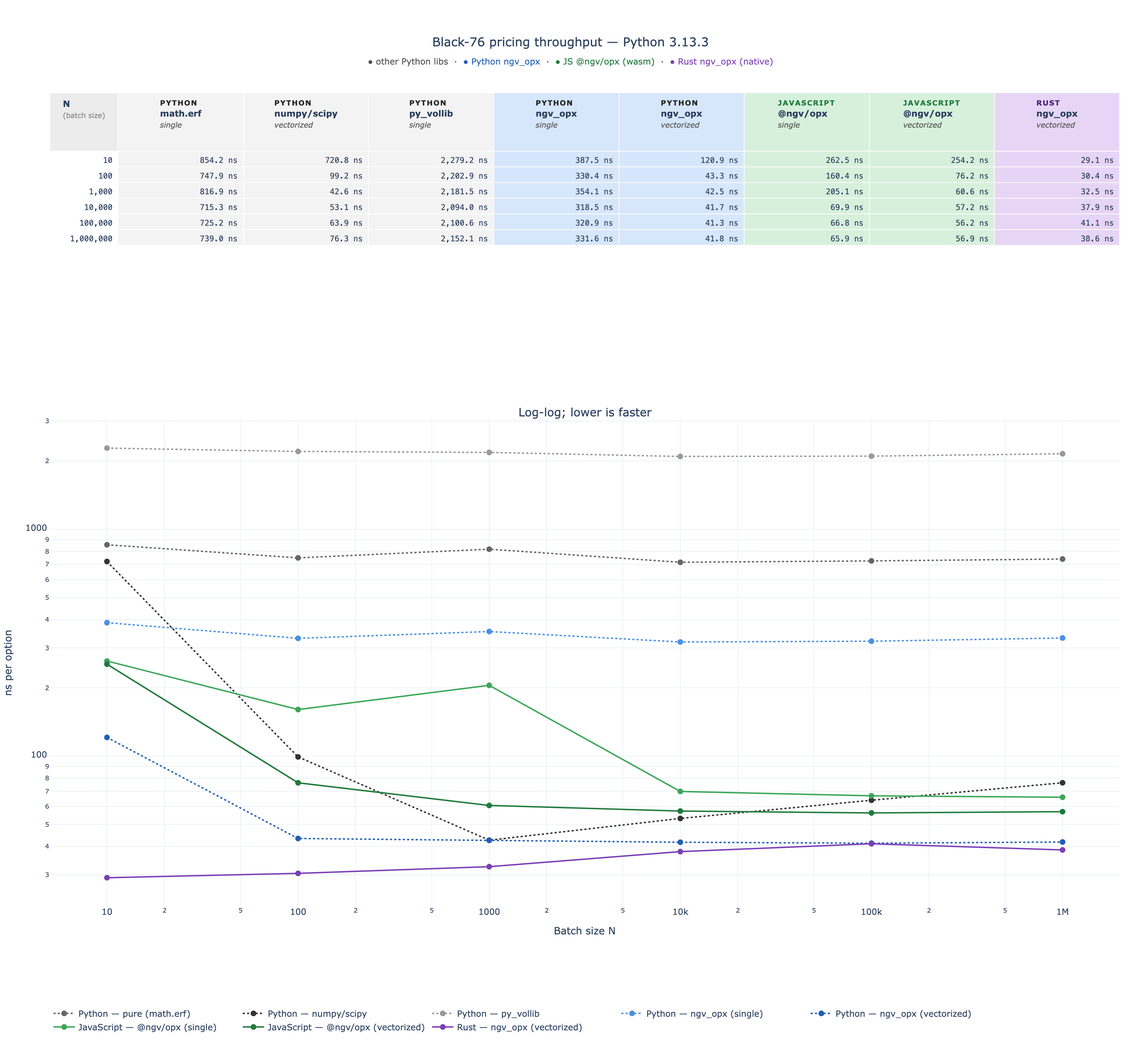
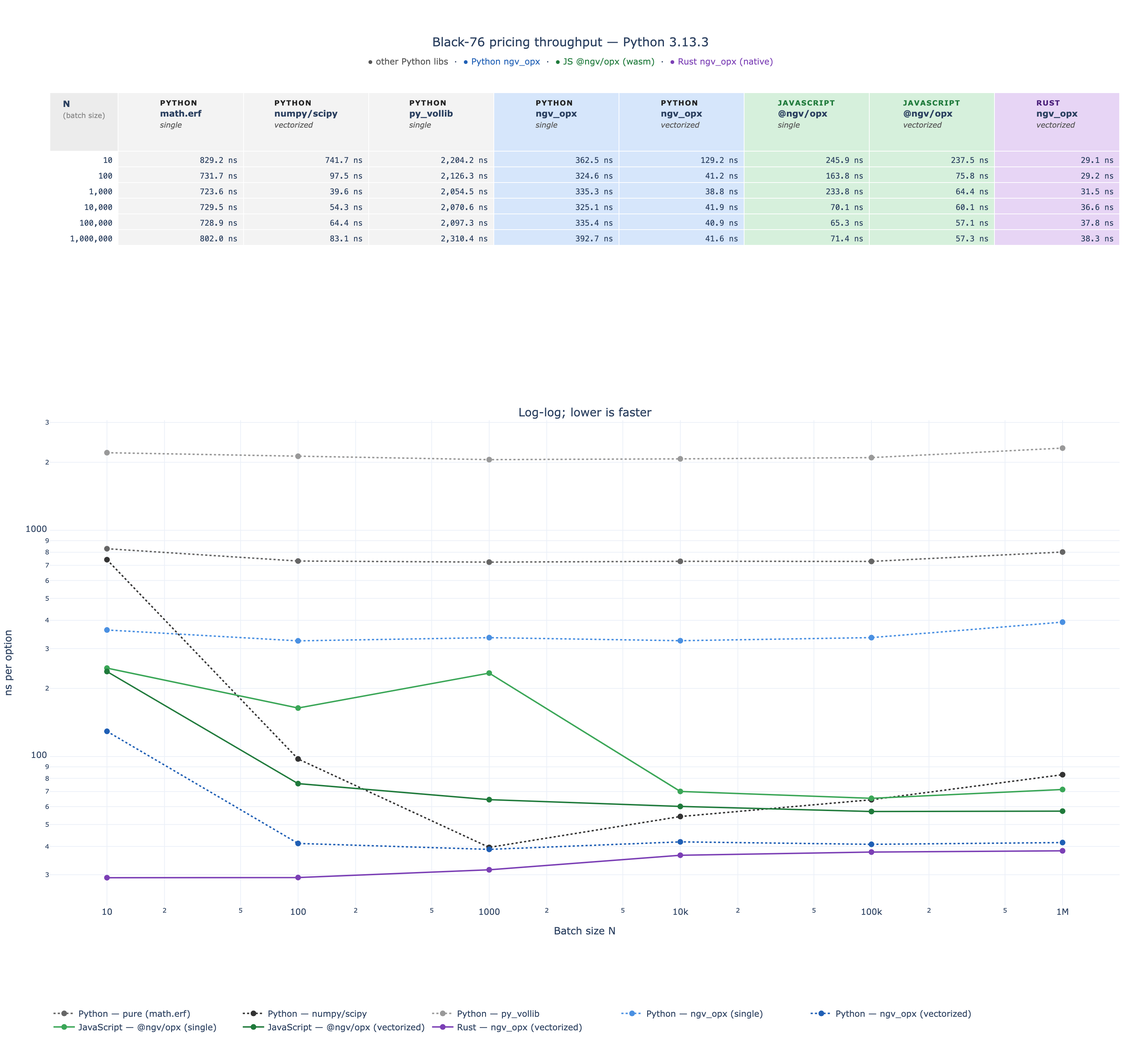
docs(readme): stacked HTML header in bench table; drop PNG embed
Replaces the markdown bench table with a raw HTML <table> so the header
can stack three rows the same way benchmarks/bench_chart.html does:
  Row 1 — LANGUAGE (PYTHON / JAVASCRIPT / RUST), colspan-grouped
  Row 2 — library (math.erf, numpy/scipy, py_vollib, ngv_opx, @ngv/opx)
  Row 3 — variant (single / vectorized)

GitHub strips inline style attributes from README HTML, so the chart's
column tints can't carry over — bold instead marks the production
ngv_opx paths (Python vec, JS vec, Rust vec). update_readme.py drives
the table from a single COLUMNS table so the chart and README stay in
sync — adding a column means one new tuple entry, not two parallel
lists.

Removes the inline PNG image in favor of links to the interactive HTML
and PNG. The numbers are the story; the picture was crowding them out.

diff --git a/benchmarks/bench_chart.html b/benchmarks/bench_chart.html
@@ -2,6 +2,6 @@
 <head><meta charset="utf-8" /></head>
 <body>
     <div>                        <script>window.PlotlyConfig = {MathJaxConfig: 'local'};</script>
-        <script charset="utf-8" src="https://cdn.plot.ly/plotly-3.5.0.min.js" integrity="sha256-fHbNLP+GlIXN+efbQec78UkemUz3NJp7UmfGxC1tNxs=" crossorigin="anonymous"></script>                <div id="9d07face-6624-4d9a-b35d-214faf67f7d0" class="plotly-graph-div" style="height:1100px; width:1200px;"></div>            <script>                window.PLOTLYENV=window.PLOTLYENV || {};                                if (document.getElementById("9d07face-6624-4d9a-b35d-214faf67f7d0")) {                    Plotly.newPlot(                        "9d07face-6624-4d9a-b35d-214faf67f7d0",                        [{"hovertemplate":"\u003cb\u003ePython — pure (math.erf)\u003c\u002fb\u003e\u003cbr\u003elanguage: Python\u003cbr\u003eN=%{x:,}\u003cbr\u003e%{y:.1f} ns\u002foption\u003cextra\u003e\u003c\u002fextra\u003e","line":{"color":"#666666","dash":"dot","width":2},"marker":{"size":8},"mode":"lines+markers","name":"Python — pure (math.erf)","x":[10,100,1000,10000,100000,1000000],"y":[854.1974239051342,747.9090709239244,816.9169304892421,715.2957958169281,725.1783297397196,739.0438329894096],"type":"scatter","xaxis":"x","yaxis":"y"},{"hovertemplate":"\u003cb\u003ePython — numpy\u002fscipy\u003c\u002fb\u003e\u003cbr\u003elanguage: Python\u003cbr\u003eN=%{x:,}\u003cbr\u003e%{y:.1f} ns\u002foption\u003cextra\u003e\u003c\u002fextra\u003e","line":{"color":"#333333","dash":"dot","width":2},"marker":{"size":8},"mode":"lines+markers","name":"Python — numpy\u002fscipy","x":[10,100,1000,10000,100000,1000000],"y":[720.7971066236496,99.16955605149269,42.58297849446535,53.10419946908951,63.88042005710303,76.28391601610929],"type":"scatter","xaxis":"x","yaxis":"y"},{"hovertemplate":"\u003cb\u003ePython — py_vollib\u003c\u002fb\u003e\u003cbr\u003elanguage: Python\u003cbr\u003eN=%{x:,}\u003cbr\u003e%{y:.1f} ns\u002foption\u003cextra\u003e\u003c\u002fextra\u003e","line":{"color":"#999999","dash":"dot","width":2},"marker":{"size":8},"mode":"lines+markers","name":"Python — py_vollib","x":[10,100,1000,10000,100000,1000000],"y":[2279.202453792095,2202.9096726328135,2181.458054110408,2093.962498474866,2100.6166702136397,2152.056209044531],"type":"scatter","xaxis":"x","yaxis":"y"},{"hovertemplate":"\u003cb\u003ePython — ngv_opx (single)\u003c\u002fb\u003e\u003cbr\u003elanguage: Python\u003cbr\u003eN=%{x:,}\u003cbr\u003e%{y:.1f} ns\u002foption\u003cextra\u003e\u003c\u002fextra\u003e","line":{"color":"#4a90e2","dash":"dot","width":2},"marker":{"size":8},"mode":"lines+markers","name":"Python — ngv_opx (single)","x":[10,100,1000,10000,100000,1000000],"y":[387.5000402331352,330.4204437881708,354.0830221027136,318.51669773459435,320.9362493362278,331.6050840076059],"type":"scatter","xaxis":"x","yaxis":"y"},{"hovertemplate":"\u003cb\u003ePython — ngv_opx (vectorized)\u003c\u002fb\u003e\u003cbr\u003elanguage: Python\u003cbr\u003eN=%{x:,}\u003cbr\u003e%{y:.1f} ns\u002foption\u003cextra\u003e\u003c\u002fextra\u003e","line":{"color":"#1f5fb5","dash":"dot","width":2},"marker":{"size":8},"mode":"lines+markers","name":"Python — ngv_opx (vectorized)","x":[10,100,1000,10000,100000,1000000],"y":[120.8973117172718,43.32978278398514,42.49997437000275,41.71250620856881,41.29042034037411,41.81112500373274],"type":"scatter","xaxis":"x","yaxis":"y"},{"hovertemplate":"\u003cb\u003eJavaScript — @ngv\u002fopx (single)\u003c\u002fb\u003e\u003cbr\u003elanguage: JavaScript\u003cbr\u003eN=%{x:,}\u003cbr\u003e%{y:.1f} ns\u002foption\u003cextra\u003e\u003c\u002fextra\u003e","line":{"color":"#3aa657","dash":"solid","width":2},"marker":{"size":8},"mode":"lines+markers","name":"JavaScript — @ngv\u002fopx (single)","x":[10,100,1000,10000,100000,1000000],"y":[262.5000000001876,160.40999999997752,205.08299999999835,69.86670000000004,66.82583999999999,65.85337500000003],"type":"scatter","xaxis":"x","yaxis":"y"},{"hovertemplate":"\u003cb\u003eJavaScript — @ngv\u002fopx (vectorized)\u003c\u002fb\u003e\u003cbr\u003elanguage: JavaScript\u003cbr\u003eN=%{x:,}\u003cbr\u003e%{y:.1f} ns\u002foption\u003cextra\u003e\u003c\u002fextra\u003e","line":{"color":"#1f7a3b","dash":"solid","width":2},"marker":{"size":8},"mode":"lines+markers","name":"JavaScript — @ngv\u002fopx (vectorized)","x":[10,100,1000,10000,100000,1000000],"y":[254.19999999982676,76.24999999997328,60.583999999998646,57.24160000000005,56.165420000000026,56.89737500000001],"type":"scatter","xaxis":"x","yaxis":"y"},{"hovertemplate":"\u003cb\u003eRust — ngv_opx (vectorized)\u003c\u002fb\u003e\u003cbr\u003elanguage: Rust\u003cbr\u003eN=%{x:,}\u003cbr\u003e%{y:.1f} ns\u002foption\u003cextra\u003e\u003c\u002fextra\u003e","line":{"color":"#7b3fb5","dash":"solid","width":2},"marker":{"size":8},"mode":"lines+markers","name":"Rust — ngv_opx (vectorized)","x":[10,100,1000,10000,100000,1000000],"y":[29.1,30.41,32.542,37.9167,41.0538,38.5768],"type":"scatter","xaxis":"x","yaxis":"y"},{"cells":{"align":"right","fill":{"color":[["white","white","white","white","white","white"],["#f3f3f3","#f3f3f3","#f3f3f3","#f3f3f3","#f3f3f3","#f3f3f3"],["#f3f3f3","#f3f3f3","#f3f3f3","#f3f3f3","#f3f3f3","#f3f3f3"],["#f3f3f3","#f3f3f3","#f3f3f3","#f3f3f3","#f3f3f3","#f3f3f3"],["#d6e6fb","#d6e6fb","#d6e6fb","#d6e6fb","#d6e6fb","#d6e6fb"],["#d6e6fb","#d6e6fb","#d6e6fb","#d6e6fb","#d6e6fb","#d6e6fb"],["#d6f0dc","#d6f0dc","#d6f0dc","#d6f0dc","#d6f0dc","#d6f0dc"],["#d6f0dc","#d6f0dc","#d6f0dc","#d6f0dc","#d6f0dc","#d6f0dc"],["#e7d5f5","#e7d5f5","#e7d5f5","#e7d5f5","#e7d5f5","#e7d5f5"]]},"font":{"family":"monospace","size":11},"height":22,"values":[["10","100","1,000","10,000","100,000","1,000,000"],["854.2 ns","747.9 ns","816.9 ns","715.3 ns","725.2 ns","739.0 ns"],["720.8 ns","99.2 ns","42.6 ns","53.1 ns","63.9 ns","76.3 ns"],["2,279.2 ns","2,202.9 ns","2,181.5 ns","2,094.0 ns","2,100.6 ns","2,152.1 ns"],["387.5 ns","330.4 ns","354.1 ns","318.5 ns","320.9 ns","331.6 ns"],["120.9 ns","43.3 ns","42.5 ns","41.7 ns","41.3 ns","41.8 ns"],["262.5 ns","160.4 ns","205.1 ns","69.9 ns","66.8 ns","65.9 ns"],["254.2 ns","76.2 ns","60.6 ns","57.2 ns","56.2 ns","56.9 ns"],["29.1 ns","30.4 ns","32.5 ns","37.9 ns","41.1 ns","38.6 ns"]]},"columnwidth":[60,110,110,110,110,110,110,110,110],"header":{"align":"center","fill":{"color":["#ececec","#f3f3f3","#f3f3f3","#f3f3f3","#d6e6fb","#d6e6fb","#d6f0dc","#d6f0dc","#e7d5f5"]},"font":{"size":12},"height":82,"values":["\u003cb\u003eN\u003c\u002fb\u003e\u003cbr\u003e\u003cspan style='font-size:10px;color:#888'\u003e(batch size)\u003c\u002fspan\u003e","\u003cspan style='background:#dcdcdc;color:#222222;font-size:10px;font-weight:700;padding:2px 8px;border-radius:3px;letter-spacing:1px;'\u003ePYTHON\u003c\u002fspan\u003e\u003cbr\u003e\u003cspan style='background:#f3f3f3;display:inline-block;padding:1px 8px;border-radius:3px;'\u003e\u003cb style='font-size:12px'\u003emath.erf\u003c\u002fb\u003e\u003c\u002fspan\u003e\u003cbr\u003e\u003cspan style='font-size:10.5px;color:#555;font-style:italic'\u003esingle\u003c\u002fspan\u003e","\u003cspan style='background:#dcdcdc;color:#222222;font-size:10px;font-weight:700;padding:2px 8px;border-radius:3px;letter-spacing:1px;'\u003ePYTHON\u003c\u002fspan\u003e\u003cbr\u003e\u003cspan style='background:#f3f3f3;display:inline-block;padding:1px 8px;border-radius:3px;'\u003e\u003cb style='font-size:12px'\u003enumpy\u002fscipy\u003c\u002fb\u003e\u003c\u002fspan\u003e\u003cbr\u003e\u003cspan style='font-size:10.5px;color:#555;font-style:italic'\u003evectorized\u003c\u002fspan\u003e","\u003cspan style='background:#dcdcdc;color:#222222;font-size:10px;font-weight:700;padding:2px 8px;border-radius:3px;letter-spacing:1px;'\u003ePYTHON\u003c\u002fspan\u003e\u003cbr\u003e\u003cspan style='background:#f3f3f3;display:inline-block;padding:1px 8px;border-radius:3px;'\u003e\u003cb style='font-size:12px'\u003epy_vollib\u003c\u002fb\u003e\u003c\u002fspan\u003e\u003cbr\u003e\u003cspan style='font-size:10.5px;color:#555;font-style:italic'\u003esingle\u003c\u002fspan\u003e","\u003cspan style='background:#dcdcdc;color:#222222;font-size:10px;font-weight:700;padding:2px 8px;border-radius:3px;letter-spacing:1px;'\u003ePYTHON\u003c\u002fspan\u003e\u003cbr\u003e\u003cspan style='background:#d6e6fb;display:inline-block;padding:1px 8px;border-radius:3px;'\u003e\u003cb style='font-size:12px'\u003engv_opx\u003c\u002fb\u003e\u003c\u002fspan\u003e\u003cbr\u003e\u003cspan style='font-size:10.5px;color:#555;font-style:italic'\u003esingle\u003c\u002fspan\u003e","\u003cspan style='background:#dcdcdc;color:#222222;font-size:10px;font-weight:700;padding:2px 8px;border-radius:3px;letter-spacing:1px;'\u003ePYTHON\u003c\u002fspan\u003e\u003cbr\u003e\u003cspan style='background:#d6e6fb;display:inline-block;padding:1px 8px;border-radius:3px;'\u003e\u003cb style='font-size:12px'\u003engv_opx\u003c\u002fb\u003e\u003c\u002fspan\u003e\u003cbr\u003e\u003cspan style='font-size:10.5px;color:#555;font-style:italic'\u003evectorized\u003c\u002fspan\u003e","\u003cspan style='background:#c8e6cf;color:#1f7a3b;font-size:10px;font-weight:700;padding:2px 8px;border-radius:3px;letter-spacing:1px;'\u003eJAVASCRIPT\u003c\u002fspan\u003e\u003cbr\u003e\u003cspan style='background:#d6f0dc;display:inline-block;padding:1px 8px;border-radius:3px;'\u003e\u003cb style='font-size:12px'\u003e@ngv\u002fopx\u003c\u002fb\u003e\u003c\u002fspan\u003e\u003cbr\u003e\u003cspan style='font-size:10.5px;color:#555;font-style:italic'\u003esingle\u003c\u002fspan\u003e","\u003cspan style='background:#c8e6cf;color:#1f7a3b;font-size:10px;font-weight:700;padding:2px 8px;border-radius:3px;letter-spacing:1px;'\u003eJAVASCRIPT\u003c\u002fspan\u003e\u003cbr\u003e\u003cspan style='background:#d6f0dc;display:inline-block;padding:1px 8px;border-radius:3px;'\u003e\u003cb style='font-size:12px'\u003e@ngv\u002fopx\u003c\u002fb\u003e\u003c\u002fspan\u003e\u003cbr\u003e\u003cspan style='font-size:10.5px;color:#555;font-style:italic'\u003evectorized\u003c\u002fspan\u003e","\u003cspan style='background:#d8c4ea;color:#4a1f7a;font-size:10px;font-weight:700;padding:2px 8px;border-radius:3px;letter-spacing:1px;'\u003eRUST\u003c\u002fspan\u003e\u003cbr\u003e\u003cspan style='background:#e7d5f5;display:inline-block;padding:1px 8px;border-radius:3px;'\u003e\u003cb style='font-size:12px'\u003engv_opx\u003c\u002fb\u003e\u003c\u002fspan\u003e\u003cbr\u003e\u003cspan style='font-size:10.5px;color:#555;font-style:italic'\u003evectorized\u003c\u002fspan\u003e"]},"type":"table","domain":{"x":[0.0,1.0],"y":[0.602,1.0]}}],                        {"template":{"data":{"barpolar":[{"marker":{"line":{"color":"white","width":0.5},"pattern":{"fillmode":"overlay","size":10,"solidity":0.2}},"type":"barpolar"}],"bar":[{"error_x":{"color":"#2a3f5f"},"error_y":{"color":"#2a3f5f"},"marker":{"line":{"color":"white","width":0.5},"pattern":{"fillmode":"overlay","size":10,"solidity":0.2}},"type":"bar"}],"carpet":[{"aaxis":{"endlinecolor":"#2a3f5f","gridcolor":"#C8D4E3","linecolor":"#C8D4E3","minorgridcolor":"#C8D4E3","startlinecolor":"#2a3f5f"},"baxis":{"endlinecolor":"#2a3f5f","gridcolor":"#C8D4E3","linecolor":"#C8D4E3","minorgridcolor":"#C8D4E3","startlinecolor":"#2a3f5f"},"type":"carpet"}],"choropleth":[{"colorbar":{"outlinewidth":0,"ticks":""},"type":"choropleth"}],"contourcarpet":[{"colorbar":{"outlinewidth":0,"ticks":""},"type":"contourcarpet"}],"contour":[{"colorbar":{"outlinewidth":0,"ticks":""},"colorscale":[[0.0,"#0d0887"],[0.1111111111111111,"#46039f"],[0.2222222222222222,"#7201a8"],[0.3333333333333333,"#9c179e"],[0.4444444444444444,"#bd3786"],[0.5555555555555556,"#d8576b"],[0.6666666666666666,"#ed7953"],[0.7777777777777778,"#fb9f3a"],[0.8888888888888888,"#fdca26"],[1.0,"#f0f921"]],"type":"contour"}],"heatmap":[{"colorbar":{"outlinewidth":0,"ticks":""},"colorscale":[[0.0,"#0d0887"],[0.1111111111111111,"#46039f"],[0.2222222222222222,"#7201a8"],[0.3333333333333333,"#9c179e"],[0.4444444444444444,"#bd3786"],[0.5555555555555556,"#d8576b"],[0.6666666666666666,"#ed7953"],[0.7777777777777778,"#fb9f3a"],[0.8888888888888888,"#fdca26"],[1.0,"#f0f921"]],"type":"heatmap"}],"histogram2dcontour":[{"colorbar":{"outlinewidth":0,"ticks":""},"colorscale":[[0.0,"#0d0887"],[0.1111111111111111,"#46039f"],[0.2222222222222222,"#7201a8"],[0.3333333333333333,"#9c179e"],[0.4444444444444444,"#bd3786"],[0.5555555555555556,"#d8576b"],[0.6666666666666666,"#ed7953"],[0.7777777777777778,"#fb9f3a"],[0.8888888888888888,"#fdca26"],[1.0,"#f0f921"]],"type":"histogram2dcontour"}],"histogram2d":[{"colorbar":{"outlinewidth":0,"ticks":""},"colorscale":[[0.0,"#0d0887"],[0.1111111111111111,"#46039f"],[0.2222222222222222,"#7201a8"],[0.3333333333333333,"#9c179e"],[0.4444444444444444,"#bd3786"],[0.5555555555555556,"#d8576b"],[0.6666666666666666,"#ed7953"],[0.7777777777777778,"#fb9f3a"],[0.8888888888888888,"#fdca26"],[1.0,"#f0f921"]],"type":"histogram2d"}],"histogram":[{"marker":{"pattern":{"fillmode":"overlay","size":10,"solidity":0.2}},"type":"histogram"}],"mesh3d":[{"colorbar":{"outlinewidth":0,"ticks":""},"type":"mesh3d"}],"parcoords":[{"line":{"colorbar":{"outlinewidth":0,"ticks":""}},"type":"parcoords"}],"pie":[{"automargin":true,"type":"pie"}],"scatter3d":[{"line":{"colorbar":{"outlinewidth":0,"ticks":""}},"marker":{"colorbar":{"outlinewidth":0,"ticks":""}},"type":"scatter3d"}],"scattercarpet":[{"marker":{"colorbar":{"outlinewidth":0,"ticks":""}},"type":"scattercarpet"}],"scattergeo":[{"marker":{"colorbar":{"outlinewidth":0,"ticks":""}},"type":"scattergeo"}],"scattergl":[{"marker":{"colorbar":{"outlinewidth":0,"ticks":""}},"type":"scattergl"}],"scattermapbox":[{"marker":{"colorbar":{"outlinewidth":0,"ticks":""}},"type":"scattermapbox"}],"scattermap":[{"marker":{"colorbar":{"outlinewidth":0,"ticks":""}},"type":"scattermap"}],"scatterpolargl":[{"marker":{"colorbar":{"outlinewidth":0,"ticks":""}},"type":"scatterpolargl"}],"scatterpolar":[{"marker":{"colorbar":{"outlinewidth":0,"ticks":""}},"type":"scatterpolar"}],"scatter":[{"fillpattern":{"fillmode":"overlay","size":10,"solidity":0.2},"type":"scatter"}],"scatterternary":[{"marker":{"colorbar":{"outlinewidth":0,"ticks":""}},"type":"scatterternary"}],"surface":[{"colorbar":{"outlinewidth":0,"ticks":""},"colorscale":[[0.0,"#0d0887"],[0.1111111111111111,"#46039f"],[0.2222222222222222,"#7201a8"],[0.3333333333333333,"#9c179e"],[0.4444444444444444,"#bd3786"],[0.5555555555555556,"#d8576b"],[0.6666666666666666,"#ed7953"],[0.7777777777777778,"#fb9f3a"],[0.8888888888888888,"#fdca26"],[1.0,"#f0f921"]],"type":"surface"}],"table":[{"cells":{"fill":{"color":"#EBF0F8"},"line":{"color":"white"}},"header":{"fill":{"color":"#C8D4E3"},"line":{"color":"white"}},"type":"table"}]},"layout":{"annotationdefaults":{"arrowcolor":"#2a3f5f","arrowhead":0,"arrowwidth":1},"autotypenumbers":"strict","coloraxis":{"colorbar":{"outlinewidth":0,"ticks":""}},"colorscale":{"diverging":[[0,"#8e0152"],[0.1,"#c51b7d"],[0.2,"#de77ae"],[0.3,"#f1b6da"],[0.4,"#fde0ef"],[0.5,"#f7f7f7"],[0.6,"#e6f5d0"],[0.7,"#b8e186"],[0.8,"#7fbc41"],[0.9,"#4d9221"],[1,"#276419"]],"sequential":[[0.0,"#0d0887"],[0.1111111111111111,"#46039f"],[0.2222222222222222,"#7201a8"],[0.3333333333333333,"#9c179e"],[0.4444444444444444,"#bd3786"],[0.5555555555555556,"#d8576b"],[0.6666666666666666,"#ed7953"],[0.7777777777777778,"#fb9f3a"],[0.8888888888888888,"#fdca26"],[1.0,"#f0f921"]],"sequentialminus":[[0.0,"#0d0887"],[0.1111111111111111,"#46039f"],[0.2222222222222222,"#7201a8"],[0.3333333333333333,"#9c179e"],[0.4444444444444444,"#bd3786"],[0.5555555555555556,"#d8576b"],[0.6666666666666666,"#ed7953"],[0.7777777777777778,"#fb9f3a"],[0.8888888888888888,"#fdca26"],[1.0,"#f0f921"]]},"colorway":["#636efa","#EF553B","#00cc96","#ab63fa","#FFA15A","#19d3f3","#FF6692","#B6E880","#FF97FF","#FECB52"],"font":{"color":"#2a3f5f"},"geo":{"bgcolor":"white","lakecolor":"white","landcolor":"white","showlakes":true,"showland":true,"subunitcolor":"#C8D4E3"},"hoverlabel":{"align":"left"},"hovermode":"closest","mapbox":{"style":"light"},"paper_bgcolor":"white","plot_bgcolor":"white","polar":{"angularaxis":{"gridcolor":"#EBF0F8","linecolor":"#EBF0F8","ticks":""},"bgcolor":"white","radialaxis":{"gridcolor":"#EBF0F8","linecolor":"#EBF0F8","ticks":""}},"scene":{"xaxis":{"backgroundcolor":"white","gridcolor":"#DFE8F3","gridwidth":2,"linecolor":"#EBF0F8","showbackground":true,"ticks":"","zerolinecolor":"#EBF0F8"},"yaxis":{"backgroundcolor":"white","gridcolor":"#DFE8F3","gridwidth":2,"linecolor":"#EBF0F8","showbackground":true,"ticks":"","zerolinecolor":"#EBF0F8"},"zaxis":{"backgroundcolor":"white","gridcolor":"#DFE8F3","gridwidth":2,"linecolor":"#EBF0F8","showbackground":true,"ticks":"","zerolinecolor":"#EBF0F8"}},"shapedefaults":{"line":{"color":"#2a3f5f"}},"ternary":{"aaxis":{"gridcolor":"#DFE8F3","linecolor":"#A2B1C6","ticks":""},"baxis":{"gridcolor":"#DFE8F3","linecolor":"#A2B1C6","ticks":""},"bgcolor":"white","caxis":{"gridcolor":"#DFE8F3","linecolor":"#A2B1C6","ticks":""}},"title":{"x":0.05},"xaxis":{"automargin":true,"gridcolor":"#EBF0F8","linecolor":"#EBF0F8","ticks":"","title":{"standoff":15},"zerolinecolor":"#EBF0F8","zerolinewidth":2},"yaxis":{"automargin":true,"gridcolor":"#EBF0F8","linecolor":"#EBF0F8","ticks":"","title":{"standoff":15},"zerolinecolor":"#EBF0F8","zerolinewidth":2}}},"xaxis":{"anchor":"y","domain":[0.0,1.0],"title":{"text":"Batch size N"},"type":"log","showgrid":true},"yaxis":{"anchor":"x","domain":[0.0,0.597],"title":{"text":"ns per option"},"type":"log","showgrid":true},"annotations":[{"font":{"size":16},"showarrow":false,"text":"Log-log; lower is faster","x":0.5,"xanchor":"center","xref":"paper","y":0.597,"yanchor":"bottom","yref":"paper"}],"title":{"text":"Black-76 pricing throughput — Python 3.13.3\u003cbr\u003e\u003csub\u003e\u003cspan style='color:#555'\u003e● other Python libs\u003c\u002fspan\u003e &nbsp;·&nbsp; \u003cspan style='color:#1f5fb5'\u003e● Python ngv_opx\u003c\u002fspan\u003e &nbsp;·&nbsp; \u003cspan style='color:#1f7a3b'\u003e● JS @ngv\u002fopx (wasm)\u003c\u002fspan\u003e &nbsp;·&nbsp; \u003cspan style='color:#7b3fb5'\u003e● Rust ngv_opx (native)\u003c\u002fspan\u003e\u003c\u002fsub\u003e","x":0.5,"xanchor":"center"},"legend":{"orientation":"h","yanchor":"top","y":-0.12,"x":0.0},"margin":{"l":70,"r":30,"t":130,"b":80},"height":1100,"width":1200},                        {"responsive": true}                    )                };            </script>        </div>
+        <script charset="utf-8" src="https://cdn.plot.ly/plotly-3.5.0.min.js" integrity="sha256-fHbNLP+GlIXN+efbQec78UkemUz3NJp7UmfGxC1tNxs=" crossorigin="anonymous"></script>                <div id="d0a514cb-91e1-464b-8f8f-a3c78c1da863" class="plotly-graph-div" style="height:1100px; width:1200px;"></div>            <script>                window.PLOTLYENV=window.PLOTLYENV || {};                                if (document.getElementById("d0a514cb-91e1-464b-8f8f-a3c78c1da863")) {                    Plotly.newPlot(                        "d0a514cb-91e1-464b-8f8f-a3c78c1da863",                        [{"hovertemplate":"\u003cb\u003ePython — pure (math.erf)\u003c\u002fb\u003e\u003cbr\u003elanguage: Python\u003cbr\u003eN=%{x:,}\u003cbr\u003e%{y:.1f} ns\u002foption\u003cextra\u003e\u003c\u002fextra\u003e","line":{"color":"#666666","dash":"dot","width":2},"marker":{"size":8},"mode":"lines+markers","name":"Python — pure (math.erf)","x":[10,100,1000,10000,100000,1000000],"y":[829.1914127767086,731.6702976822853,723.5829252749681,729.4500013813376,728.8537500426173,801.9951249007136],"type":"scatter","xaxis":"x","yaxis":"y"},{"hovertemplate":"\u003cb\u003ePython — numpy\u002fscipy\u003c\u002fb\u003e\u003cbr\u003elanguage: Python\u003cbr\u003eN=%{x:,}\u003cbr\u003e%{y:.1f} ns\u002foption\u003cextra\u003e\u003c\u002fextra\u003e","line":{"color":"#333333","dash":"dot","width":2},"marker":{"size":8},"mode":"lines+markers","name":"Python — numpy\u002fscipy","x":[10,100,1000,10000,100000,1000000],"y":[741.6936568915844,97.50016033649445,39.624981582164764,54.2541965842247,64.37000003643334,83.07195897214115],"type":"scatter","xaxis":"x","yaxis":"y"},{"hovertemplate":"\u003cb\u003ePython — py_vollib\u003c\u002fb\u003e\u003cbr\u003elanguage: Python\u003cbr\u003eN=%{x:,}\u003cbr\u003e%{y:.1f} ns\u002foption\u003cextra\u003e\u003c\u002fextra\u003e","line":{"color":"#999999","dash":"dot","width":2},"marker":{"size":8},"mode":"lines+markers","name":"Python — py_vollib","x":[10,100,1000,10000,100000,1000000],"y":[2204.196061939001,2126.250183209777,2054.5420702546835,2070.5666043795645,2097.340839682147,2310.4370000073686],"type":"scatter","xaxis":"x","yaxis":"y"},{"hovertemplate":"\u003cb\u003ePython — ngv_opx (single)\u003c\u002fb\u003e\u003cbr\u003elanguage: Python\u003cbr\u003eN=%{x:,}\u003cbr\u003e%{y:.1f} ns\u002foption\u003cextra\u003e\u003c\u002fextra\u003e","line":{"color":"#4a90e2","dash":"dot","width":2},"marker":{"size":8},"mode":"lines+markers","name":"Python — ngv_opx (single)","x":[10,100,1000,10000,100000,1000000],"y":[362.4940291047096,324.58105124533176,335.29195934534073,325.07909927517176,335.44542035087943,392.7204170031473],"type":"scatter","xaxis":"x","yaxis":"y"},{"hovertemplate":"\u003cb\u003ePython — ngv_opx (vectorized)\u003c\u002fb\u003e\u003cbr\u003elanguage: Python\u003cbr\u003eN=%{x:,}\u003cbr\u003e%{y:.1f} ns\u002foption\u003cextra\u003e\u003c\u002fextra\u003e","line":{"color":"#1f5fb5","dash":"dot","width":2},"marker":{"size":8},"mode":"lines+markers","name":"Python — ngv_opx (vectorized)","x":[10,100,1000,10000,100000,1000000],"y":[129.19772416353226,41.24944098293781,38.83393947035074,41.916698683053255,40.88166984729469,41.62074998021126],"type":"scatter","xaxis":"x","yaxis":"y"},{"hovertemplate":"\u003cb\u003eJavaScript — @ngv\u002fopx (single)\u003c\u002fb\u003e\u003cbr\u003elanguage: JavaScript\u003cbr\u003eN=%{x:,}\u003cbr\u003e%{y:.1f} ns\u002foption\u003cextra\u003e\u003c\u002fextra\u003e","line":{"color":"#3aa657","dash":"solid","width":2},"marker":{"size":8},"mode":"lines+markers","name":"JavaScript — @ngv\u002fopx (single)","x":[10,100,1000,10000,100000,1000000],"y":[245.90000000017656,163.75000000000028,233.75000000000057,70.0541000000001,65.29124999999992,71.43837500000002],"type":"scatter","xaxis":"x","yaxis":"y"},{"hovertemplate":"\u003cb\u003eJavaScript — @ngv\u002fopx (vectorized)\u003c\u002fb\u003e\u003cbr\u003elanguage: JavaScript\u003cbr\u003eN=%{x:,}\u003cbr\u003e%{y:.1f} ns\u002foption\u003cextra\u003e\u003c\u002fextra\u003e","line":{"color":"#1f7a3b","dash":"solid","width":2},"marker":{"size":8},"mode":"lines+markers","name":"JavaScript — @ngv\u002fopx (vectorized)","x":[10,100,1000,10000,100000,1000000],"y":[237.50000000006818,75.8300000000034,64.41699999999884,60.11249999999996,57.09958,57.32600000000002],"type":"scatter","xaxis":"x","yaxis":"y"},{"hovertemplate":"\u003cb\u003eRust — ngv_opx (vectorized)\u003c\u002fb\u003e\u003cbr\u003elanguage: Rust\u003cbr\u003eN=%{x:,}\u003cbr\u003e%{y:.1f} ns\u002foption\u003cextra\u003e\u003c\u002fextra\u003e","line":{"color":"#7b3fb5","dash":"solid","width":2},"marker":{"size":8},"mode":"lines+markers","name":"Rust — ngv_opx (vectorized)","x":[10,100,1000,10000,100000,1000000],"y":[29.1,29.16,31.541,36.5833,37.7879,38.2713],"type":"scatter","xaxis":"x","yaxis":"y"},{"cells":{"align":"right","fill":{"color":[["white","white","white","white","white","white"],["#f3f3f3","#f3f3f3","#f3f3f3","#f3f3f3","#f3f3f3","#f3f3f3"],["#f3f3f3","#f3f3f3","#f3f3f3","#f3f3f3","#f3f3f3","#f3f3f3"],["#f3f3f3","#f3f3f3","#f3f3f3","#f3f3f3","#f3f3f3","#f3f3f3"],["#d6e6fb","#d6e6fb","#d6e6fb","#d6e6fb","#d6e6fb","#d6e6fb"],["#d6e6fb","#d6e6fb","#d6e6fb","#d6e6fb","#d6e6fb","#d6e6fb"],["#d6f0dc","#d6f0dc","#d6f0dc","#d6f0dc","#d6f0dc","#d6f0dc"],["#d6f0dc","#d6f0dc","#d6f0dc","#d6f0dc","#d6f0dc","#d6f0dc"],["#e7d5f5","#e7d5f5","#e7d5f5","#e7d5f5","#e7d5f5","#e7d5f5"]]},"font":{"family":"monospace","size":11},"height":22,"values":[["10","100","1,000","10,000","100,000","1,000,000"],["829.2 ns","731.7 ns","723.6 ns","729.5 ns","728.9 ns","802.0 ns"],["741.7 ns","97.5 ns","39.6 ns","54.3 ns","64.4 ns","83.1 ns"],["2,204.2 ns","2,126.3 ns","2,054.5 ns","2,070.6 ns","2,097.3 ns","2,310.4 ns"],["362.5 ns","324.6 ns","335.3 ns","325.1 ns","335.4 ns","392.7 ns"],["129.2 ns","41.2 ns","38.8 ns","41.9 ns","40.9 ns","41.6 ns"],["245.9 ns","163.8 ns","233.8 ns","70.1 ns","65.3 ns","71.4 ns"],["237.5 ns","75.8 ns","64.4 ns","60.1 ns","57.1 ns","57.3 ns"],["29.1 ns","29.2 ns","31.5 ns","36.6 ns","37.8 ns","38.3 ns"]]},"columnwidth":[60,110,110,110,110,110,110,110,110],"header":{"align":"center","fill":{"color":["#ececec","#f3f3f3","#f3f3f3","#f3f3f3","#d6e6fb","#d6e6fb","#d6f0dc","#d6f0dc","#e7d5f5"]},"font":{"size":12},"height":82,"values":["\u003cb\u003eN\u003c\u002fb\u003e\u003cbr\u003e\u003cspan style='font-size:10px;color:#888'\u003e(batch size)\u003c\u002fspan\u003e","\u003cspan style='background:#dcdcdc;color:#222222;font-size:10px;font-weight:700;padding:2px 8px;border-radius:3px;letter-spacing:1px;'\u003ePYTHON\u003c\u002fspan\u003e\u003cbr\u003e\u003cspan style='background:#f3f3f3;display:inline-block;padding:1px 8px;border-radius:3px;'\u003e\u003cb style='font-size:12px'\u003emath.erf\u003c\u002fb\u003e\u003c\u002fspan\u003e\u003cbr\u003e\u003cspan style='font-size:10.5px;color:#555;font-style:italic'\u003esingle\u003c\u002fspan\u003e","\u003cspan style='background:#dcdcdc;color:#222222;font-size:10px;font-weight:700;padding:2px 8px;border-radius:3px;letter-spacing:1px;'\u003ePYTHON\u003c\u002fspan\u003e\u003cbr\u003e\u003cspan style='background:#f3f3f3;display:inline-block;padding:1px 8px;border-radius:3px;'\u003e\u003cb style='font-size:12px'\u003enumpy\u002fscipy\u003c\u002fb\u003e\u003c\u002fspan\u003e\u003cbr\u003e\u003cspan style='font-size:10.5px;color:#555;font-style:italic'\u003evectorized\u003c\u002fspan\u003e","\u003cspan style='background:#dcdcdc;color:#222222;font-size:10px;font-weight:700;padding:2px 8px;border-radius:3px;letter-spacing:1px;'\u003ePYTHON\u003c\u002fspan\u003e\u003cbr\u003e\u003cspan style='background:#f3f3f3;display:inline-block;padding:1px 8px;border-radius:3px;'\u003e\u003cb style='font-size:12px'\u003epy_vollib\u003c\u002fb\u003e\u003c\u002fspan\u003e\u003cbr\u003e\u003cspan style='font-size:10.5px;color:#555;font-style:italic'\u003esingle\u003c\u002fspan\u003e","\u003cspan style='background:#dcdcdc;color:#222222;font-size:10px;font-weight:700;padding:2px 8px;border-radius:3px;letter-spacing:1px;'\u003ePYTHON\u003c\u002fspan\u003e\u003cbr\u003e\u003cspan style='background:#d6e6fb;display:inline-block;padding:1px 8px;border-radius:3px;'\u003e\u003cb style='font-size:12px'\u003engv_opx\u003c\u002fb\u003e\u003c\u002fspan\u003e\u003cbr\u003e\u003cspan style='font-size:10.5px;color:#555;font-style:italic'\u003esingle\u003c\u002fspan\u003e","\u003cspan style='background:#dcdcdc;color:#222222;font-size:10px;font-weight:700;padding:2px 8px;border-radius:3px;letter-spacing:1px;'\u003ePYTHON\u003c\u002fspan\u003e\u003cbr\u003e\u003cspan style='background:#d6e6fb;display:inline-block;padding:1px 8px;border-radius:3px;'\u003e\u003cb style='font-size:12px'\u003engv_opx\u003c\u002fb\u003e\u003c\u002fspan\u003e\u003cbr\u003e\u003cspan style='font-size:10.5px;color:#555;font-style:italic'\u003evectorized\u003c\u002fspan\u003e","\u003cspan style='background:#c8e6cf;color:#1f7a3b;font-size:10px;font-weight:700;padding:2px 8px;border-radius:3px;letter-spacing:1px;'\u003eJAVASCRIPT\u003c\u002fspan\u003e\u003cbr\u003e\u003cspan style='background:#d6f0dc;display:inline-block;padding:1px 8px;border-radius:3px;'\u003e\u003cb style='font-size:12px'\u003e@ngv\u002fopx\u003c\u002fb\u003e\u003c\u002fspan\u003e\u003cbr\u003e\u003cspan style='font-size:10.5px;color:#555;font-style:italic'\u003esingle\u003c\u002fspan\u003e","\u003cspan style='background:#c8e6cf;color:#1f7a3b;font-size:10px;font-weight:700;padding:2px 8px;border-radius:3px;letter-spacing:1px;'\u003eJAVASCRIPT\u003c\u002fspan\u003e\u003cbr\u003e\u003cspan style='background:#d6f0dc;display:inline-block;padding:1px 8px;border-radius:3px;'\u003e\u003cb style='font-size:12px'\u003e@ngv\u002fopx\u003c\u002fb\u003e\u003c\u002fspan\u003e\u003cbr\u003e\u003cspan style='font-size:10.5px;color:#555;font-style:italic'\u003evectorized\u003c\u002fspan\u003e","\u003cspan style='background:#d8c4ea;color:#4a1f7a;font-size:10px;font-weight:700;padding:2px 8px;border-radius:3px;letter-spacing:1px;'\u003eRUST\u003c\u002fspan\u003e\u003cbr\u003e\u003cspan style='background:#e7d5f5;display:inline-block;padding:1px 8px;border-radius:3px;'\u003e\u003cb style='font-size:12px'\u003engv_opx\u003c\u002fb\u003e\u003c\u002fspan\u003e\u003cbr\u003e\u003cspan style='font-size:10.5px;color:#555;font-style:italic'\u003evectorized\u003c\u002fspan\u003e"]},"type":"table","domain":{"x":[0.0,1.0],"y":[0.602,1.0]}}],                        {"template":{"data":{"barpolar":[{"marker":{"line":{"color":"white","width":0.5},"pattern":{"fillmode":"overlay","size":10,"solidity":0.2}},"type":"barpolar"}],"bar":[{"error_x":{"color":"#2a3f5f"},"error_y":{"color":"#2a3f5f"},"marker":{"line":{"color":"white","width":0.5},"pattern":{"fillmode":"overlay","size":10,"solidity":0.2}},"type":"bar"}],"carpet":[{"aaxis":{"endlinecolor":"#2a3f5f","gridcolor":"#C8D4E3","linecolor":"#C8D4E3","minorgridcolor":"#C8D4E3","startlinecolor":"#2a3f5f"},"baxis":{"endlinecolor":"#2a3f5f","gridcolor":"#C8D4E3","linecolor":"#C8D4E3","minorgridcolor":"#C8D4E3","startlinecolor":"#2a3f5f"},"type":"carpet"}],"choropleth":[{"colorbar":{"outlinewidth":0,"ticks":""},"type":"choropleth"}],"contourcarpet":[{"colorbar":{"outlinewidth":0,"ticks":""},"type":"contourcarpet"}],"contour":[{"colorbar":{"outlinewidth":0,"ticks":""},"colorscale":[[0.0,"#0d0887"],[0.1111111111111111,"#46039f"],[0.2222222222222222,"#7201a8"],[0.3333333333333333,"#9c179e"],[0.4444444444444444,"#bd3786"],[0.5555555555555556,"#d8576b"],[0.6666666666666666,"#ed7953"],[0.7777777777777778,"#fb9f3a"],[0.8888888888888888,"#fdca26"],[1.0,"#f0f921"]],"type":"contour"}],"heatmap":[{"colorbar":{"outlinewidth":0,"ticks":""},"colorscale":[[0.0,"#0d0887"],[0.1111111111111111,"#46039f"],[0.2222222222222222,"#7201a8"],[0.3333333333333333,"#9c179e"],[0.4444444444444444,"#bd3786"],[0.5555555555555556,"#d8576b"],[0.6666666666666666,"#ed7953"],[0.7777777777777778,"#fb9f3a"],[0.8888888888888888,"#fdca26"],[1.0,"#f0f921"]],"type":"heatmap"}],"histogram2dcontour":[{"colorbar":{"outlinewidth":0,"ticks":""},"colorscale":[[0.0,"#0d0887"],[0.1111111111111111,"#46039f"],[0.2222222222222222,"#7201a8"],[0.3333333333333333,"#9c179e"],[0.4444444444444444,"#bd3786"],[0.5555555555555556,"#d8576b"],[0.6666666666666666,"#ed7953"],[0.7777777777777778,"#fb9f3a"],[0.8888888888888888,"#fdca26"],[1.0,"#f0f921"]],"type":"histogram2dcontour"}],"histogram2d":[{"colorbar":{"outlinewidth":0,"ticks":""},"colorscale":[[0.0,"#0d0887"],[0.1111111111111111,"#46039f"],[0.2222222222222222,"#7201a8"],[0.3333333333333333,"#9c179e"],[0.4444444444444444,"#bd3786"],[0.5555555555555556,"#d8576b"],[0.6666666666666666,"#ed7953"],[0.7777777777777778,"#fb9f3a"],[0.8888888888888888,"#fdca26"],[1.0,"#f0f921"]],"type":"histogram2d"}],"histogram":[{"marker":{"pattern":{"fillmode":"overlay","size":10,"solidity":0.2}},"type":"histogram"}],"mesh3d":[{"colorbar":{"outlinewidth":0,"ticks":""},"type":"mesh3d"}],"parcoords":[{"line":{"colorbar":{"outlinewidth":0,"ticks":""}},"type":"parcoords"}],"pie":[{"automargin":true,"type":"pie"}],"scatter3d":[{"line":{"colorbar":{"outlinewidth":0,"ticks":""}},"marker":{"colorbar":{"outlinewidth":0,"ticks":""}},"type":"scatter3d"}],"scattercarpet":[{"marker":{"colorbar":{"outlinewidth":0,"ticks":""}},"type":"scattercarpet"}],"scattergeo":[{"marker":{"colorbar":{"outlinewidth":0,"ticks":""}},"type":"scattergeo"}],"scattergl":[{"marker":{"colorbar":{"outlinewidth":0,"ticks":""}},"type":"scattergl"}],"scattermapbox":[{"marker":{"colorbar":{"outlinewidth":0,"ticks":""}},"type":"scattermapbox"}],"scattermap":[{"marker":{"colorbar":{"outlinewidth":0,"ticks":""}},"type":"scattermap"}],"scatterpolargl":[{"marker":{"colorbar":{"outlinewidth":0,"ticks":""}},"type":"scatterpolargl"}],"scatterpolar":[{"marker":{"colorbar":{"outlinewidth":0,"ticks":""}},"type":"scatterpolar"}],"scatter":[{"fillpattern":{"fillmode":"overlay","size":10,"solidity":0.2},"type":"scatter"}],"scatterternary":[{"marker":{"colorbar":{"outlinewidth":0,"ticks":""}},"type":"scatterternary"}],"surface":[{"colorbar":{"outlinewidth":0,"ticks":""},"colorscale":[[0.0,"#0d0887"],[0.1111111111111111,"#46039f"],[0.2222222222222222,"#7201a8"],[0.3333333333333333,"#9c179e"],[0.4444444444444444,"#bd3786"],[0.5555555555555556,"#d8576b"],[0.6666666666666666,"#ed7953"],[0.7777777777777778,"#fb9f3a"],[0.8888888888888888,"#fdca26"],[1.0,"#f0f921"]],"type":"surface"}],"table":[{"cells":{"fill":{"color":"#EBF0F8"},"line":{"color":"white"}},"header":{"fill":{"color":"#C8D4E3"},"line":{"color":"white"}},"type":"table"}]},"layout":{"annotationdefaults":{"arrowcolor":"#2a3f5f","arrowhead":0,"arrowwidth":1},"autotypenumbers":"strict","coloraxis":{"colorbar":{"outlinewidth":0,"ticks":""}},"colorscale":{"diverging":[[0,"#8e0152"],[0.1,"#c51b7d"],[0.2,"#de77ae"],[0.3,"#f1b6da"],[0.4,"#fde0ef"],[0.5,"#f7f7f7"],[0.6,"#e6f5d0"],[0.7,"#b8e186"],[0.8,"#7fbc41"],[0.9,"#4d9221"],[1,"#276419"]],"sequential":[[0.0,"#0d0887"],[0.1111111111111111,"#46039f"],[0.2222222222222222,"#7201a8"],[0.3333333333333333,"#9c179e"],[0.4444444444444444,"#bd3786"],[0.5555555555555556,"#d8576b"],[0.6666666666666666,"#ed7953"],[0.7777777777777778,"#fb9f3a"],[0.8888888888888888,"#fdca26"],[1.0,"#f0f921"]],"sequentialminus":[[0.0,"#0d0887"],[0.1111111111111111,"#46039f"],[0.2222222222222222,"#7201a8"],[0.3333333333333333,"#9c179e"],[0.4444444444444444,"#bd3786"],[0.5555555555555556,"#d8576b"],[0.6666666666666666,"#ed7953"],[0.7777777777777778,"#fb9f3a"],[0.8888888888888888,"#fdca26"],[1.0,"#f0f921"]]},"colorway":["#636efa","#EF553B","#00cc96","#ab63fa","#FFA15A","#19d3f3","#FF6692","#B6E880","#FF97FF","#FECB52"],"font":{"color":"#2a3f5f"},"geo":{"bgcolor":"white","lakecolor":"white","landcolor":"white","showlakes":true,"showland":true,"subunitcolor":"#C8D4E3"},"hoverlabel":{"align":"left"},"hovermode":"closest","mapbox":{"style":"light"},"paper_bgcolor":"white","plot_bgcolor":"white","polar":{"angularaxis":{"gridcolor":"#EBF0F8","linecolor":"#EBF0F8","ticks":""},"bgcolor":"white","radialaxis":{"gridcolor":"#EBF0F8","linecolor":"#EBF0F8","ticks":""}},"scene":{"xaxis":{"backgroundcolor":"white","gridcolor":"#DFE8F3","gridwidth":2,"linecolor":"#EBF0F8","showbackground":true,"ticks":"","zerolinecolor":"#EBF0F8"},"yaxis":{"backgroundcolor":"white","gridcolor":"#DFE8F3","gridwidth":2,"linecolor":"#EBF0F8","showbackground":true,"ticks":"","zerolinecolor":"#EBF0F8"},"zaxis":{"backgroundcolor":"white","gridcolor":"#DFE8F3","gridwidth":2,"linecolor":"#EBF0F8","showbackground":true,"ticks":"","zerolinecolor":"#EBF0F8"}},"shapedefaults":{"line":{"color":"#2a3f5f"}},"ternary":{"aaxis":{"gridcolor":"#DFE8F3","linecolor":"#A2B1C6","ticks":""},"baxis":{"gridcolor":"#DFE8F3","linecolor":"#A2B1C6","ticks":""},"bgcolor":"white","caxis":{"gridcolor":"#DFE8F3","linecolor":"#A2B1C6","ticks":""}},"title":{"x":0.05},"xaxis":{"automargin":true,"gridcolor":"#EBF0F8","linecolor":"#EBF0F8","ticks":"","title":{"standoff":15},"zerolinecolor":"#EBF0F8","zerolinewidth":2},"yaxis":{"automargin":true,"gridcolor":"#EBF0F8","linecolor":"#EBF0F8","ticks":"","title":{"standoff":15},"zerolinecolor":"#EBF0F8","zerolinewidth":2}}},"xaxis":{"anchor":"y","domain":[0.0,1.0],"title":{"text":"Batch size N"},"type":"log","showgrid":true},"yaxis":{"anchor":"x","domain":[0.0,0.597],"title":{"text":"ns per option"},"type":"log","showgrid":true},"annotations":[{"font":{"size":16},"showarrow":false,"text":"Log-log; lower is faster","x":0.5,"xanchor":"center","xref":"paper","y":0.597,"yanchor":"bottom","yref":"paper"}],"title":{"text":"Black-76 pricing throughput — Python 3.13.3\u003cbr\u003e\u003csub\u003e\u003cspan style='color:#555'\u003e● other Python libs\u003c\u002fspan\u003e &nbsp;·&nbsp; \u003cspan style='color:#1f5fb5'\u003e● Python ngv_opx\u003c\u002fspan\u003e &nbsp;·&nbsp; \u003cspan style='color:#1f7a3b'\u003e● JS @ngv\u002fopx (wasm)\u003c\u002fspan\u003e &nbsp;·&nbsp; \u003cspan style='color:#7b3fb5'\u003e● Rust ngv_opx (native)\u003c\u002fspan\u003e\u003c\u002fsub\u003e","x":0.5,"xanchor":"center"},"legend":{"orientation":"h","yanchor":"top","y":-0.12,"x":0.0},"margin":{"l":70,"r":30,"t":130,"b":80},"height":1100,"width":1200},                        {"responsive": true}                    )                };            </script>        </div>
 </body>
 </html>

diff --git a/benchmarks/update_readme.py b/benchmarks/update_readme.py
@@ -18,26 +18,19 @@ HTML_REL = "benchmarks/bench_chart.html"
 START = "<!-- BENCH:START - auto-generated by `task bench:readme`, do not edit -->"
 END = "<!-- BENCH:END -->"
 
-ORDERED = [
-    "Python — pure (math.erf)",
-    "Python — numpy/scipy",
-    "Python — py_vollib",
-    "Python — ngv_opx (single)",
-    "Python — ngv_opx (vectorized)",
-    "JavaScript — @ngv/opx (single)",
-    "JavaScript — @ngv/opx (vectorized)",
-    "Rust — ngv_opx (vectorized)",
-]
-
-COL_HEADERS = [
-    "Python pure",
-    "numpy/scipy",
-    "py_vollib",
-    "ngv_opx (single)",
-    "**ngv_opx (vec)**",
-    "JS @ngv/opx (single)",
-    "**JS @ngv/opx (vec)**",
-    "**Rust ngv_opx**",
+# Mirror bench_chart.py's column order exactly. Each entry carries the three
+# pieces the stacked header surfaces: language / library / variant. The
+# `highlight` flag bolds the column to draw the eye to the production ngv_opx
+# rows (Python vec, JS vec, Rust vec).
+COLUMNS = [
+    ("Python — pure (math.erf)",          "PYTHON",     "math.erf",   "single",     False),
+    ("Python — numpy/scipy",              "PYTHON",     "numpy/scipy","vectorized", False),
+    ("Python — py_vollib",                "PYTHON",     "py_vollib",  "single",     False),
+    ("Python — ngv_opx (single)",         "PYTHON",     "ngv_opx",    "single",     False),
+    ("Python — ngv_opx (vectorized)",     "PYTHON",     "ngv_opx",    "vectorized", True),
+    ("JavaScript — @ngv/opx (single)",    "JAVASCRIPT", "@ngv/opx",   "single",     False),
+    ("JavaScript — @ngv/opx (vectorized)","JAVASCRIPT", "@ngv/opx",   "vectorized", True),
+    ("Rust — ngv_opx (vectorized)",       "RUST",       "ngv_opx",    "vectorized", True),
 ]
 
 
@@ -47,29 +40,89 @@ def fmt(v: float) -> str:
     return f"{v:,.1f}"
 
 
-def build_block(paths) -> str:
+def _language_groups():
+    """Yield (language, colspan) pairs in column order — collapses runs of
+    the same language for the top-level grouped header row."""
+    groups = []
+    for _, lang, _, _, _ in COLUMNS:
+        if groups and groups[-1][0] == lang:
+            groups[-1] = (lang, groups[-1][1] + 1)
+        else:
+            groups.append((lang, 1))
+    return groups
+
+
+def build_html_table(paths) -> str:
     sizes = sorted({n for by_n in paths.values() for n in by_n.keys()})
-    pyver = f"{sys.version_info.major}.{sys.version_info.minor}.{sys.version_info.micro}"
 
-    header = "| N | " + " | ".join(COL_HEADERS) + " |"
-    align = "|---:|" + "---:|" * len(COL_HEADERS)
-    rows = []
+    # Header row 1: language groups, with colspan across consecutive columns
+    # that share the same language. Top-left N cell rowspans the full header
+    # stack so the three header rows align cleanly.
+    lang_cells = []
+    for lang, span in _language_groups():
+        lang_cells.append(
+            f'      <th align="center" colspan="{span}">{lang}</th>'
+        )
+    row1 = (
+        '    <tr>\n'
+        '      <th rowspan="3" align="right">N</th>\n'
+        + "\n".join(lang_cells)
+        + "\n    </tr>"
+    )
+
+    # Header row 2: library name. Bold for highlighted (ngv_opx production)
+    # columns so the eye lands on them first.
+    lib_cells = []
+    for _, _, lib, _, hi in COLUMNS:
+        tag = f"<b>{lib}</b>" if hi else lib
+        lib_cells.append(f'      <th align="center">{tag}</th>')
+    row2 = "    <tr>\n" + "\n".join(lib_cells) + "\n    </tr>"
+
+    # Header row 3: variant (single / vectorized).
+    var_cells = []
+    for _, _, _, var, hi in COLUMNS:
+        tag = f"<b>{var}</b>" if hi else var
+        var_cells.append(f'      <th align="center"><sub>{tag}</sub></th>')
+    row3 = "    <tr>\n" + "\n".join(var_cells) + "\n    </tr>"
+
+    # Data rows.
+    data_rows = []
     for n in sizes:
-        cells = [f"{n:,}"] + [fmt(paths[name].get(n)) for name in ORDERED]
-        rows.append("| " + " | ".join(cells) + " |")
+        cells = [f'      <td align="right">{n:,}</td>']
+        for name, _, _, _, hi in COLUMNS:
+            v = fmt(paths[name].get(n))
+            tag = f"<b>{v}</b>" if hi else v
+            cells.append(f'      <td align="right">{tag}</td>')
+        data_rows.append("    <tr>\n" + "\n".join(cells) + "\n    </tr>")
 
+    return "\n".join([
+        "<table>",
+        "  <thead>",
+        row1,
+        row2,
+        row3,
+        "  </thead>",
+        "  <tbody>",
+        *data_rows,
+        "  </tbody>",
+        "</table>",
+    ])
+
+
+def build_block(paths) -> str:
+    pyver = f"{sys.version_info.major}.{sys.version_info.minor}.{sys.version_info.micro}"
+    table = build_html_table(paths)
     return "\n".join([
         START,
         "",
-        f"![Black-76 throughput]({PNG_REL})",
-        "",
         f"Per-option time in nanoseconds (lower is faster). Measured on Python {pyver}.",
+        f"Header reads top-to-bottom as **language → library → call shape**, "
+        f"matching `{HTML_REL}`. **Bold** marks the production `ngv_opx` paths.",
         "",
-        header,
-        align,
-        *rows,
+        table,
         "",
-        f"Interactive version: [`{HTML_REL}`]({HTML_REL}) (open locally; GitHub doesn't render embedded JS).",
+        f"Interactive chart: [`{HTML_REL}`]({HTML_REL}) (open locally; GitHub doesn't render embedded JS). "
+        f"Static image: [`{PNG_REL}`]({PNG_REL}).",
         "",
         "Regenerate with `task bench:readme`.",
         "",

diff --git a/README.md b/README.md
@@ -108,20 +108,109 @@ Black-76 pricing throughput across implementations. Log-log; lower is faster.
 
 <!-- BENCH:START - auto-generated by `task bench:readme`, do not edit -->
 
-![Black-76 throughput](benchmarks/bench_chart.png)
-
 Per-option time in nanoseconds (lower is faster). Measured on Python 3.13.3.
+Header reads top-to-bottom as **language → library → call shape**, matching `benchmarks/bench_chart.html`. **Bold** marks the production `ngv_opx` paths.
 
-| N | Python pure | numpy/scipy | py_vollib | ngv_opx (single) | **ngv_opx (vec)** | JS @ngv/opx (single) | **JS @ngv/opx (vec)** | **Rust ngv_opx** |
-|---:|---:|---:|---:|---:|---:|---:|---:|---:|
-| 10 | 891.7 | 716.6 | 2,266.7 | 354.2 | 125.0 | 245.9 | 250.0 | 29.1 |
-| 100 | 762.5 | 97.9 | 2,181.3 | 331.2 | 40.8 | 157.5 | 68.8 | 29.2 |
-| 1,000 | 733.4 | 39.1 | 2,093.0 | 328.4 | 39.3 | 203.0 | 60.3 | 32.8 |
-| 10,000 | 725.1 | 54.3 | 2,102.0 | 327.9 | 40.5 | 70.5 | 56.6 | 36.5 |
-| 100,000 | 729.1 | 62.8 | 2,065.0 | 335.5 | 40.7 | 65.7 | 55.8 | 37.7 |
-| 1,000,000 | 734.2 | 67.8 | 2,168.5 | 340.3 | 41.2 | 66.1 | 56.9 | 38.4 |
+<table>
+  <thead>
+    <tr>
+      <th rowspan="3" align="right">N</th>
+      <th align="center" colspan="5">PYTHON</th>
+      <th align="center" colspan="2">JAVASCRIPT</th>
+      <th align="center" colspan="1">RUST</th>
+    </tr>
+    <tr>
+      <th align="center">math.erf</th>
+      <th align="center">numpy/scipy</th>
+      <th align="center">py_vollib</th>
+      <th align="center">ngv_opx</th>
+      <th align="center"><b>ngv_opx</b></th>
+      <th align="center">@ngv/opx</th>
+      <th align="center"><b>@ngv/opx</b></th>
+      <th align="center"><b>ngv_opx</b></th>
+    </tr>
+    <tr>
+      <th align="center"><sub>single</sub></th>
+      <th align="center"><sub>vectorized</sub></th>
+      <th align="center"><sub>single</sub></th>
+      <th align="center"><sub>single</sub></th>
+      <th align="center"><sub><b>vectorized</b></sub></th>
+      <th align="center"><sub>single</sub></th>
+      <th align="center"><sub><b>vectorized</b></sub></th>
+      <th align="center"><sub><b>vectorized</b></sub></th>
+    </tr>
+  </thead>
+  <tbody>
+    <tr>
+      <td align="right">10</td>
+      <td align="right">829.2</td>
+      <td align="right">741.7</td>
+      <td align="right">2,204.2</td>
+      <td align="right">362.5</td>
+      <td align="right"><b>129.2</b></td>
+      <td align="right">245.9</td>
+      <td align="right"><b>237.5</b></td>
+      <td align="right"><b>29.1</b></td>
+    </tr>
+    <tr>
+      <td align="right">100</td>
+      <td align="right">731.7</td>
+      <td align="right">97.5</td>
+      <td align="right">2,126.3</td>
+      <td align="right">324.6</td>
+      <td align="right"><b>41.2</b></td>
+      <td align="right">163.8</td>
+      <td align="right"><b>75.8</b></td>
+      <td align="right"><b>29.2</b></td>
+    </tr>
+    <tr>
+      <td align="right">1,000</td>
+      <td align="right">723.6</td>
+      <td align="right">39.6</td>
+      <td align="right">2,054.5</td>
+      <td align="right">335.3</td>
+      <td align="right"><b>38.8</b></td>
+      <td align="right">233.8</td>
+      <td align="right"><b>64.4</b></td>
+      <td align="right"><b>31.5</b></td>
+    </tr>
+    <tr>
+      <td align="right">10,000</td>
+      <td align="right">729.5</td>
+      <td align="right">54.3</td>
+      <td align="right">2,070.6</td>
+      <td align="right">325.1</td>
+      <td align="right"><b>41.9</b></td>
+      <td align="right">70.1</td>
+      <td align="right"><b>60.1</b></td>
+      <td align="right"><b>36.6</b></td>
+    </tr>
+    <tr>
+      <td align="right">100,000</td>
+      <td align="right">728.9</td>
+      <td align="right">64.4</td>
+      <td align="right">2,097.3</td>
+      <td align="right">335.4</td>
+      <td align="right"><b>40.9</b></td>
+      <td align="right">65.3</td>
+      <td align="right"><b>57.1</b></td>
+      <td align="right"><b>37.8</b></td>
+    </tr>
+    <tr>
+      <td align="right">1,000,000</td>
+      <td align="right">802.0</td>
+      <td align="right">83.1</td>
+      <td align="right">2,310.4</td>
+      <td align="right">392.7</td>
+      <td align="right"><b>41.6</b></td>
+      <td align="right">71.4</td>
+      <td align="right"><b>57.3</b></td>
+      <td align="right"><b>38.3</b></td>
+    </tr>
+  </tbody>
+</table>
 
-Interactive version: [`benchmarks/bench_chart.html`](benchmarks/bench_chart.html) (open locally; GitHub doesn't render embedded JS).
+Interactive chart: [`benchmarks/bench_chart.html`](benchmarks/bench_chart.html) (open locally; GitHub doesn't render embedded JS). Static image: [`benchmarks/bench_chart.png`](benchmarks/bench_chart.png).
 
 Regenerate with `task bench:readme`.
 
